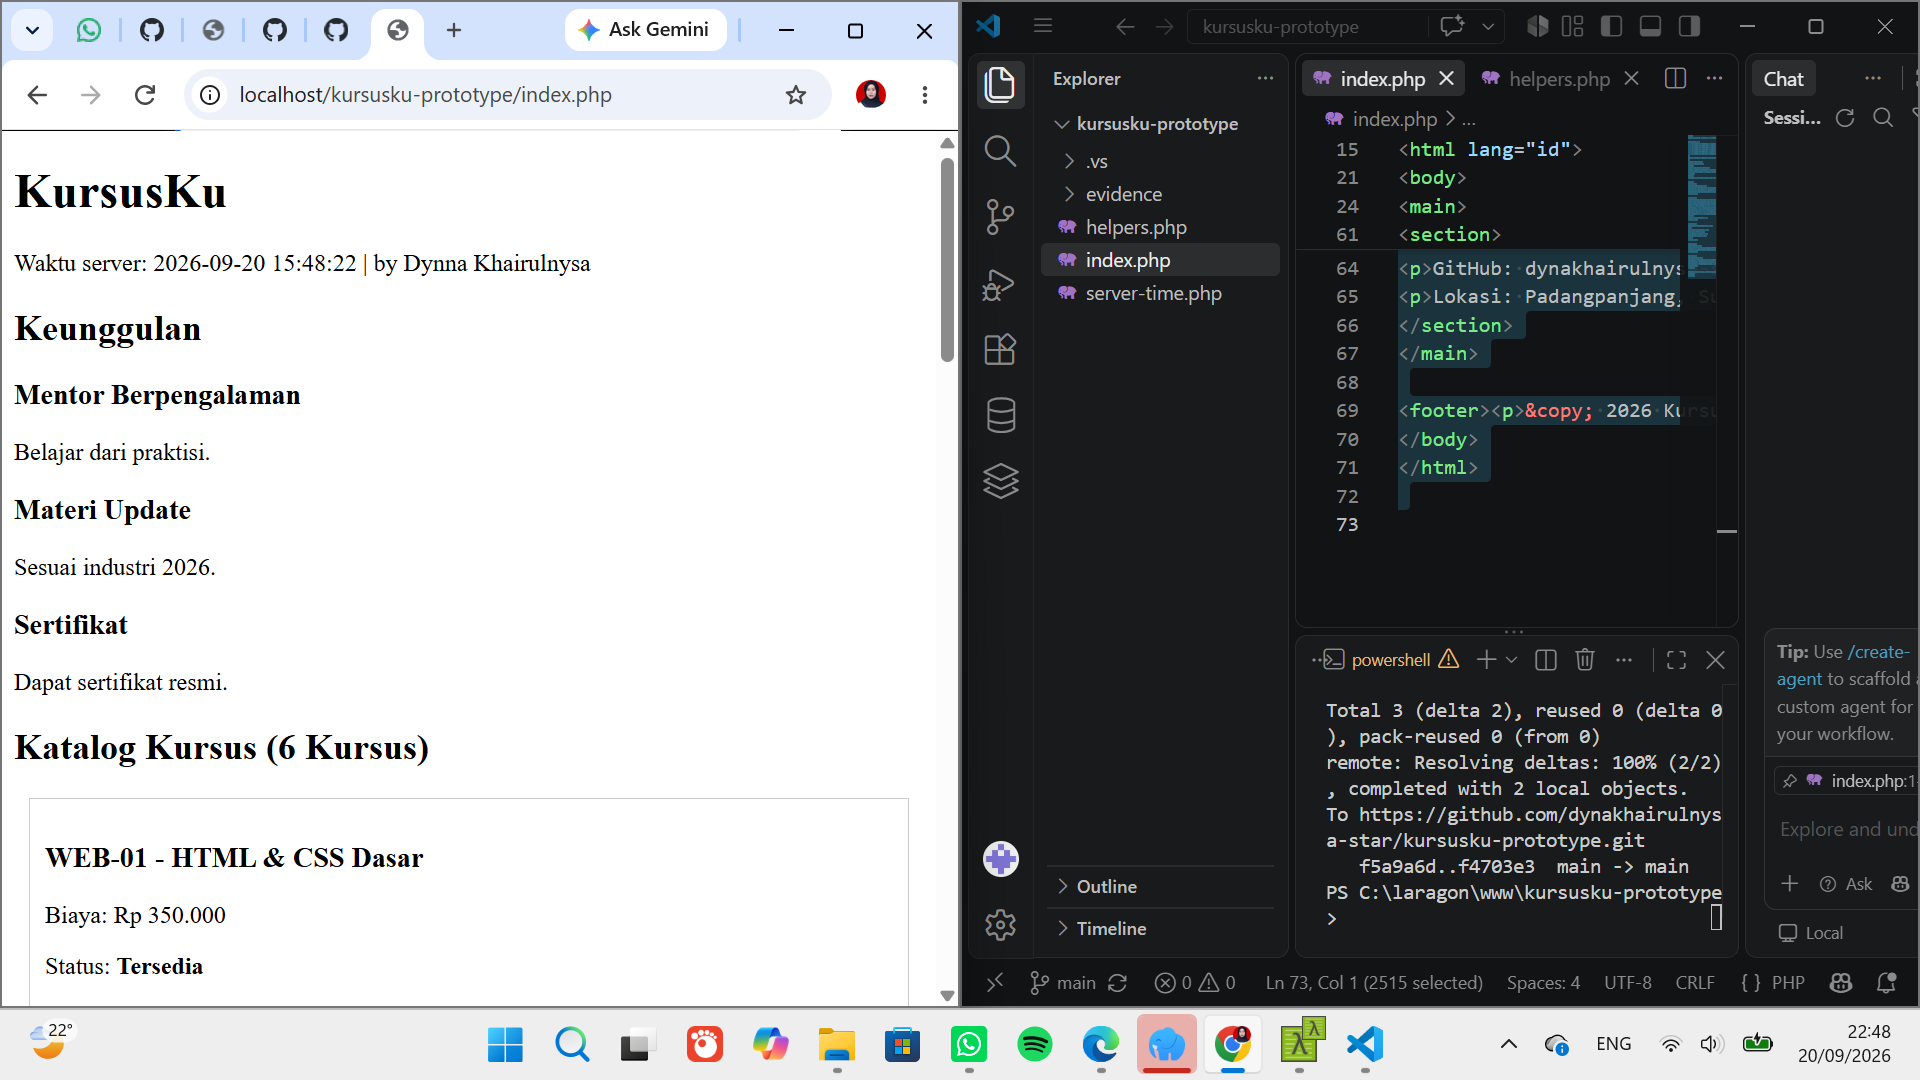
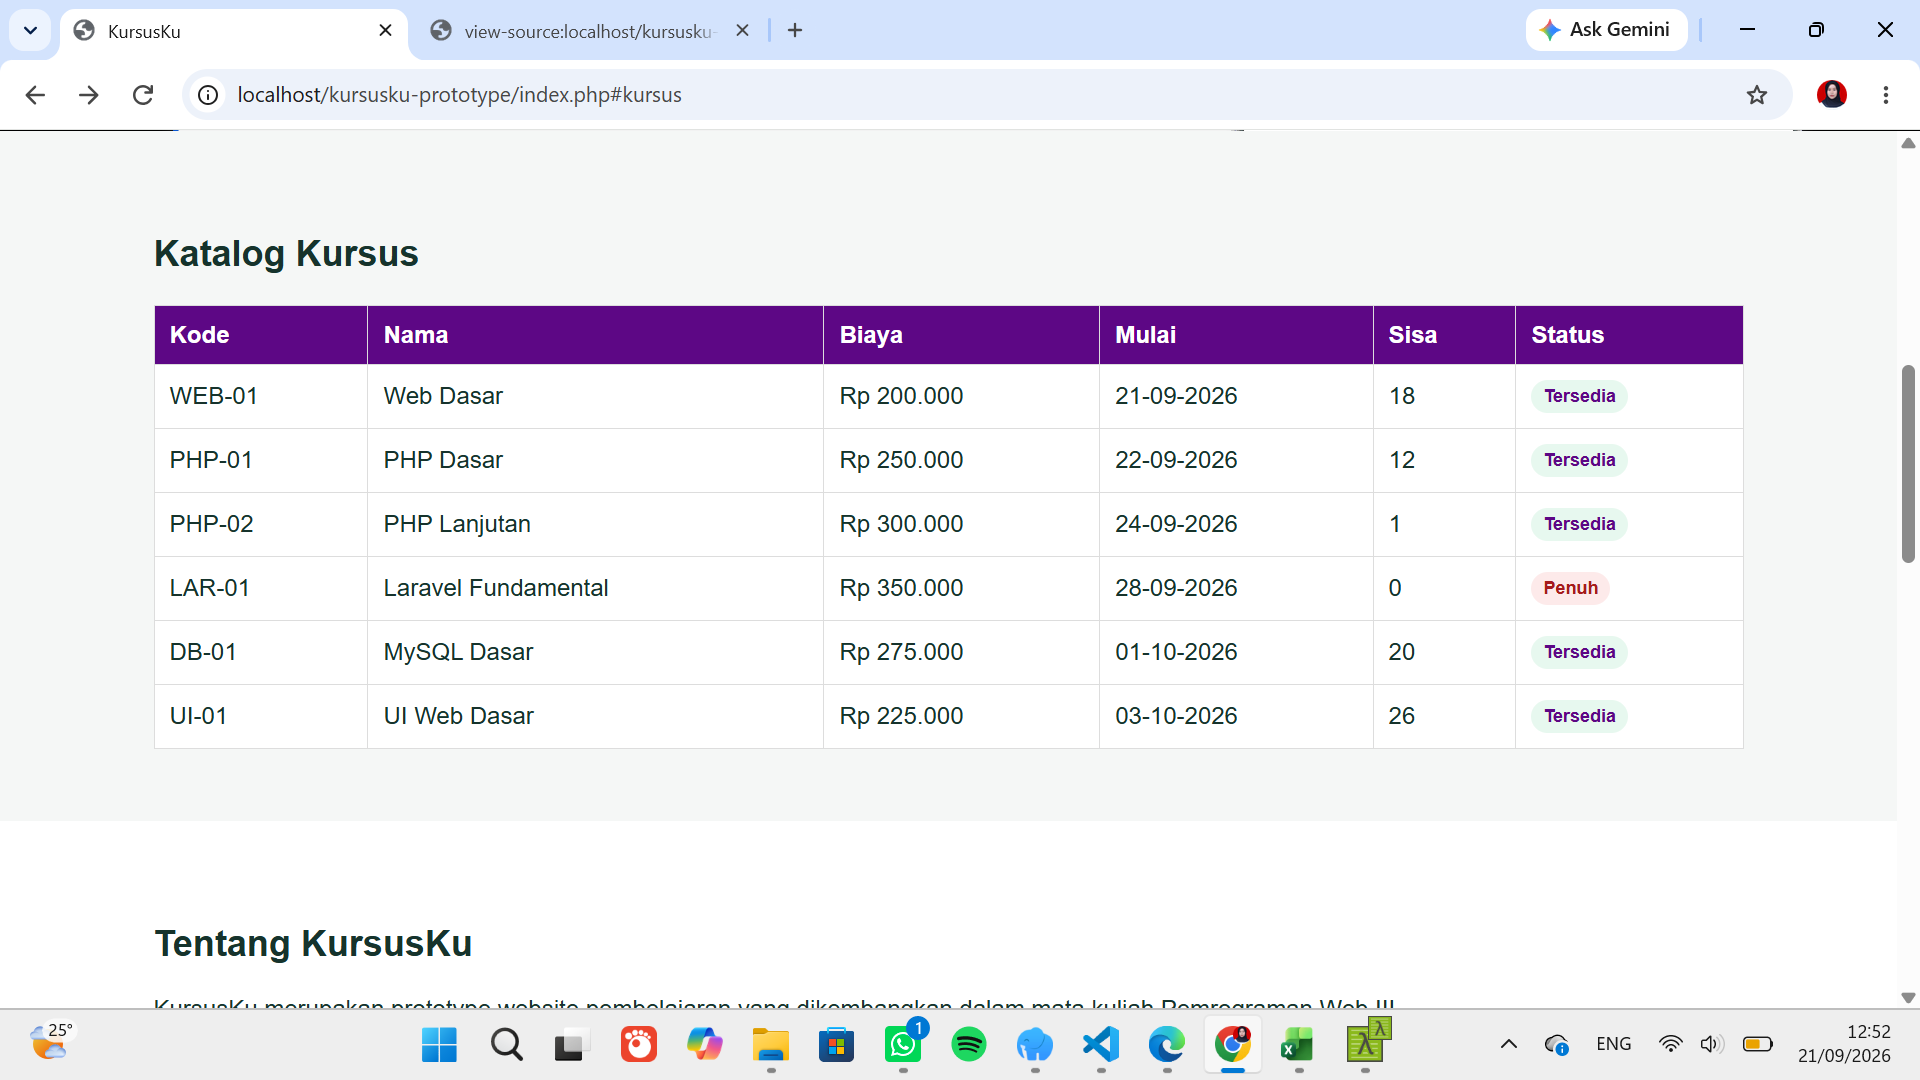
tugas

diff --git a/assets/css/style.css b/assets/css/style.css
@@ -14,7 +14,7 @@ body {
 }
 
 .header {
-  background: #0f766e;
+  background: #5d0785;
   color: white;
   padding: 32px 0;
   text-align: center;
@@ -24,7 +24,7 @@ body {
 .header p { margin: 8px 0 0; opacity: 0.9; }
 
 .navbar {
-  background: #115e56;
+  background: #c768c4;
   padding: 12px 0;
 }
 
@@ -64,7 +64,7 @@ body {
 
 .button {
   display: inline-block;
-  background: #0f766e;
+  background: #5d0785;
   color: white;
   padding: 12px 24px;
   border-radius: 8px;
@@ -73,7 +73,7 @@ body {
   margin-top: 12px;
 }
 
-.button:hover { background: #115e56; }
+.button:hover { background: #5d0785; }
 
 .course-grid {
   display: grid;
@@ -89,7 +89,7 @@ body {
   padding: 20px;
 }
 
-.course-card h3 { margin-top: 0; color: #0f766e; }
+.course-card h3 { margin-top: 0; color: #5d0785; }
 
 .video-placeholder {
   text-align: center;
@@ -97,7 +97,7 @@ body {
 }
 
 .footer {
-  background: #0f766e;
+  background: #5d0785;
   color: white;
   padding: 24px 0;
   text-align: center;
@@ -123,7 +123,7 @@ th, td {
 }
 
 th {
-  background: #0f766e;
+  background: #5d0785;
   color: white;
   font-weight: 600;
 }
@@ -139,7 +139,7 @@ th {
 
 .badge-available {
   background: #e7f8ef;
-  color: #146c43;
+  color: #5d0785;
 }
 
 .badge-full {
